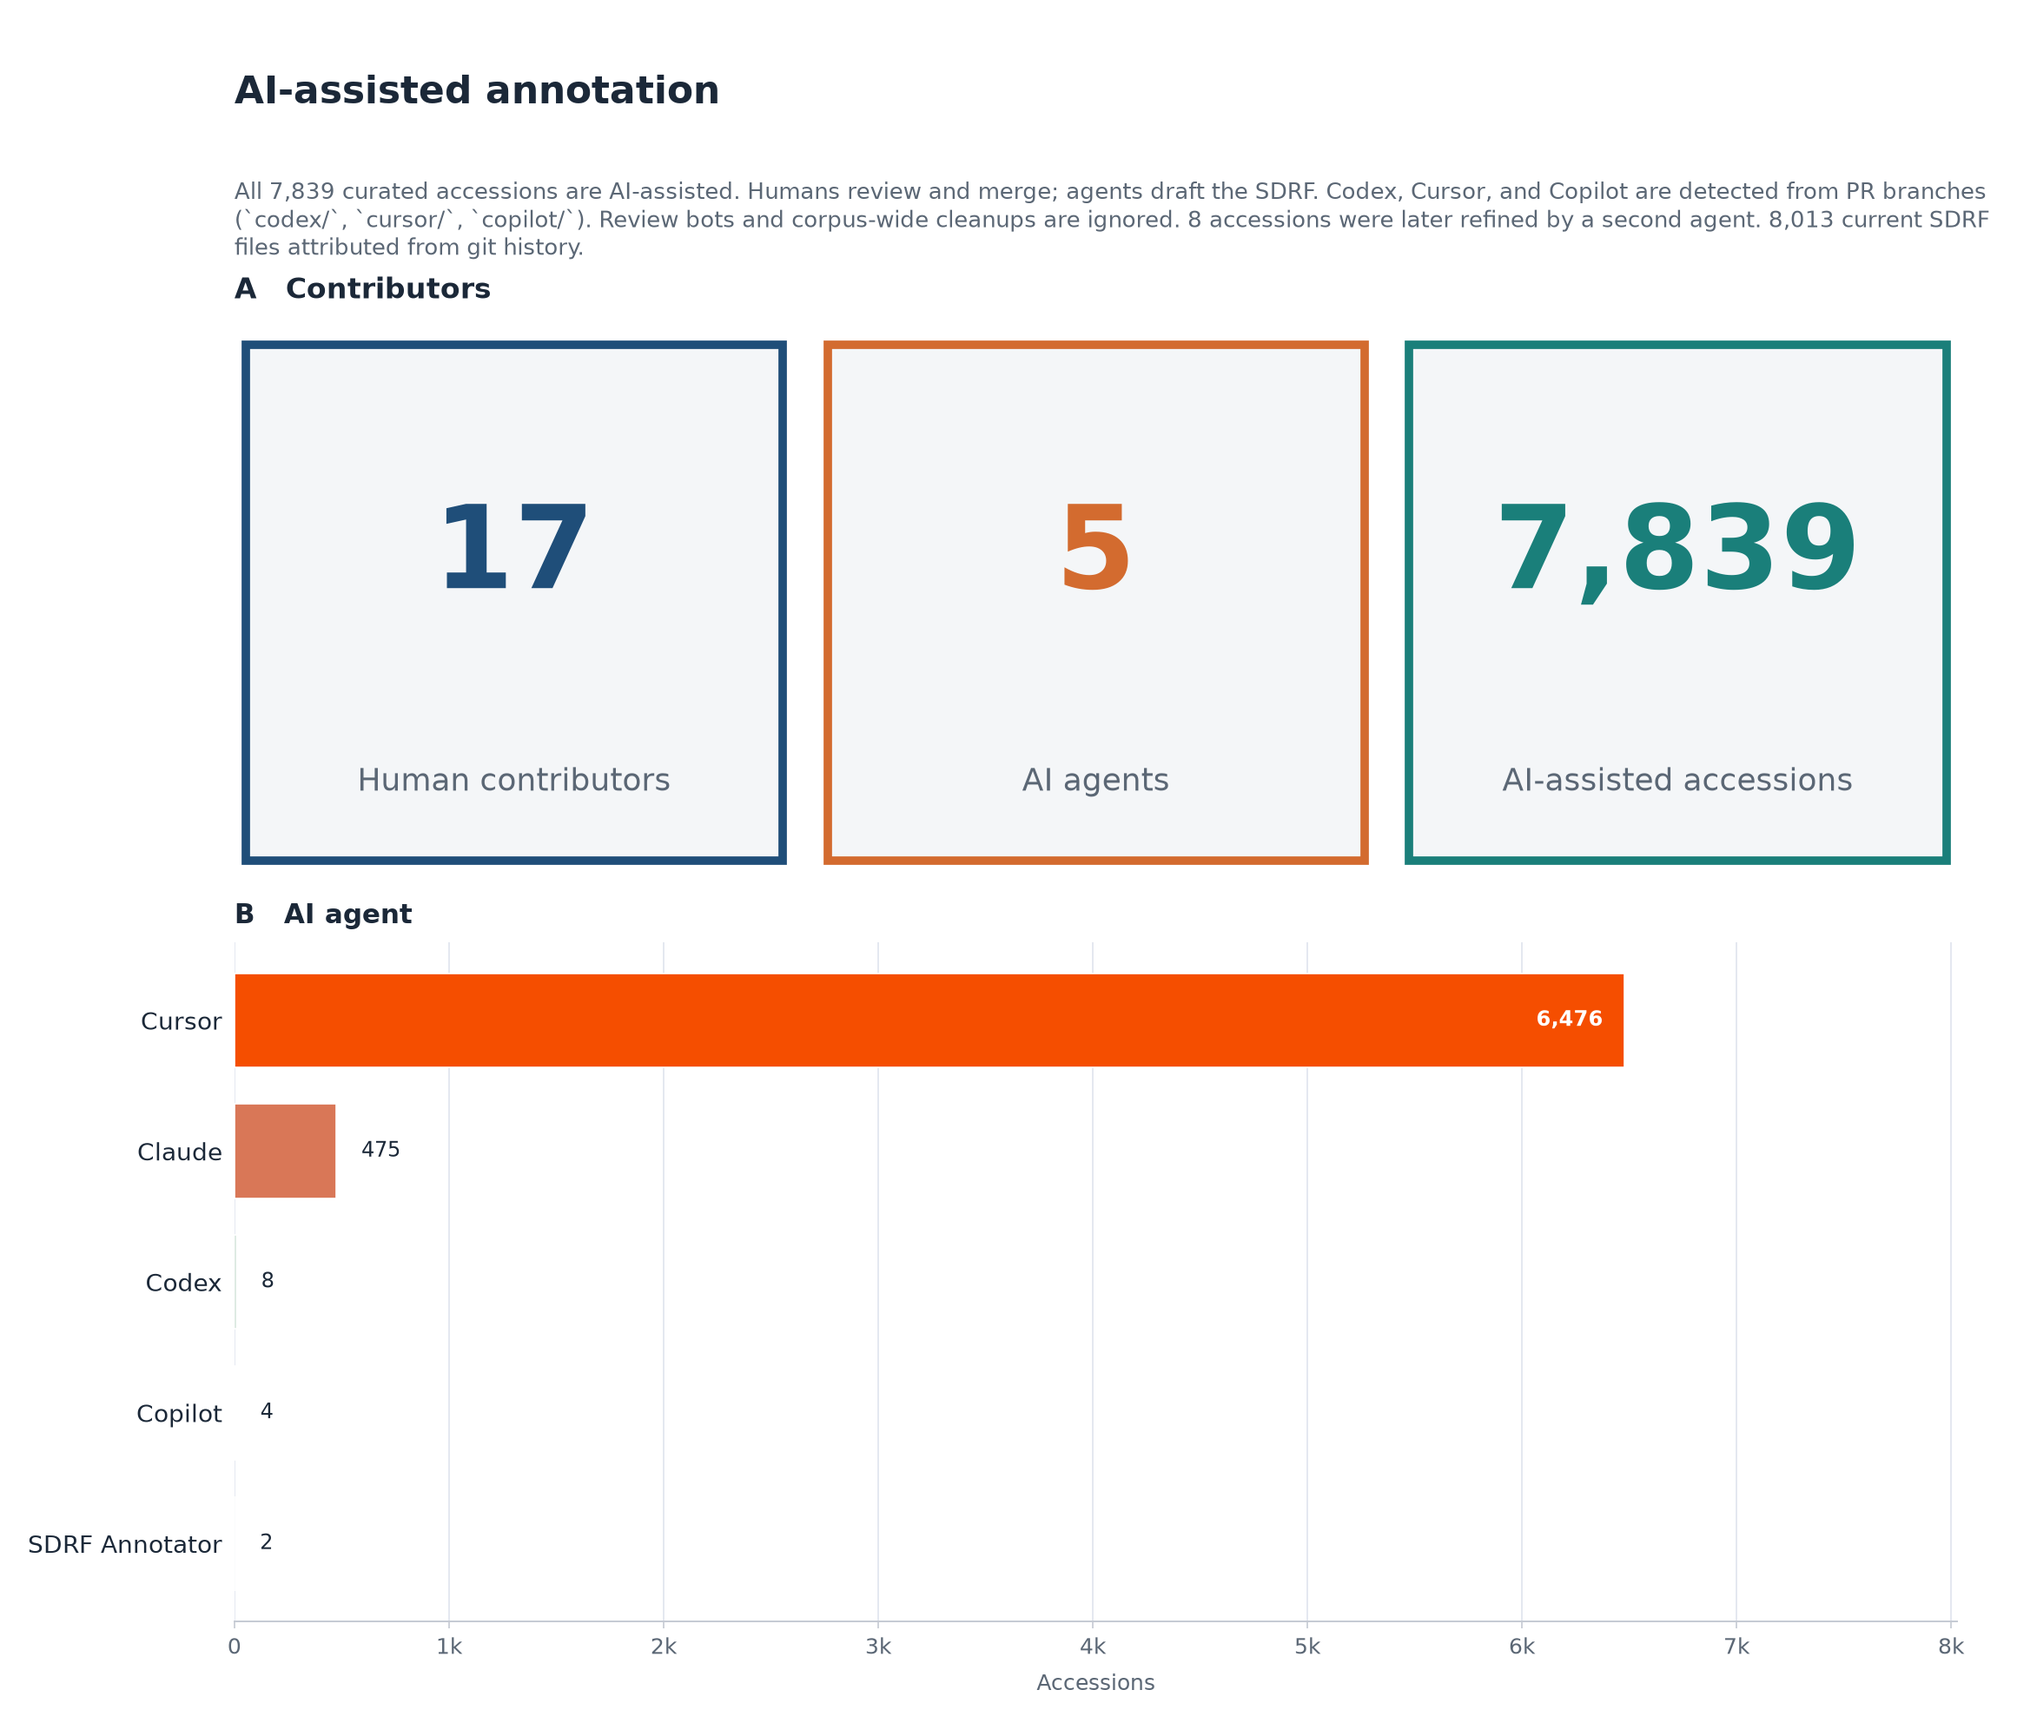
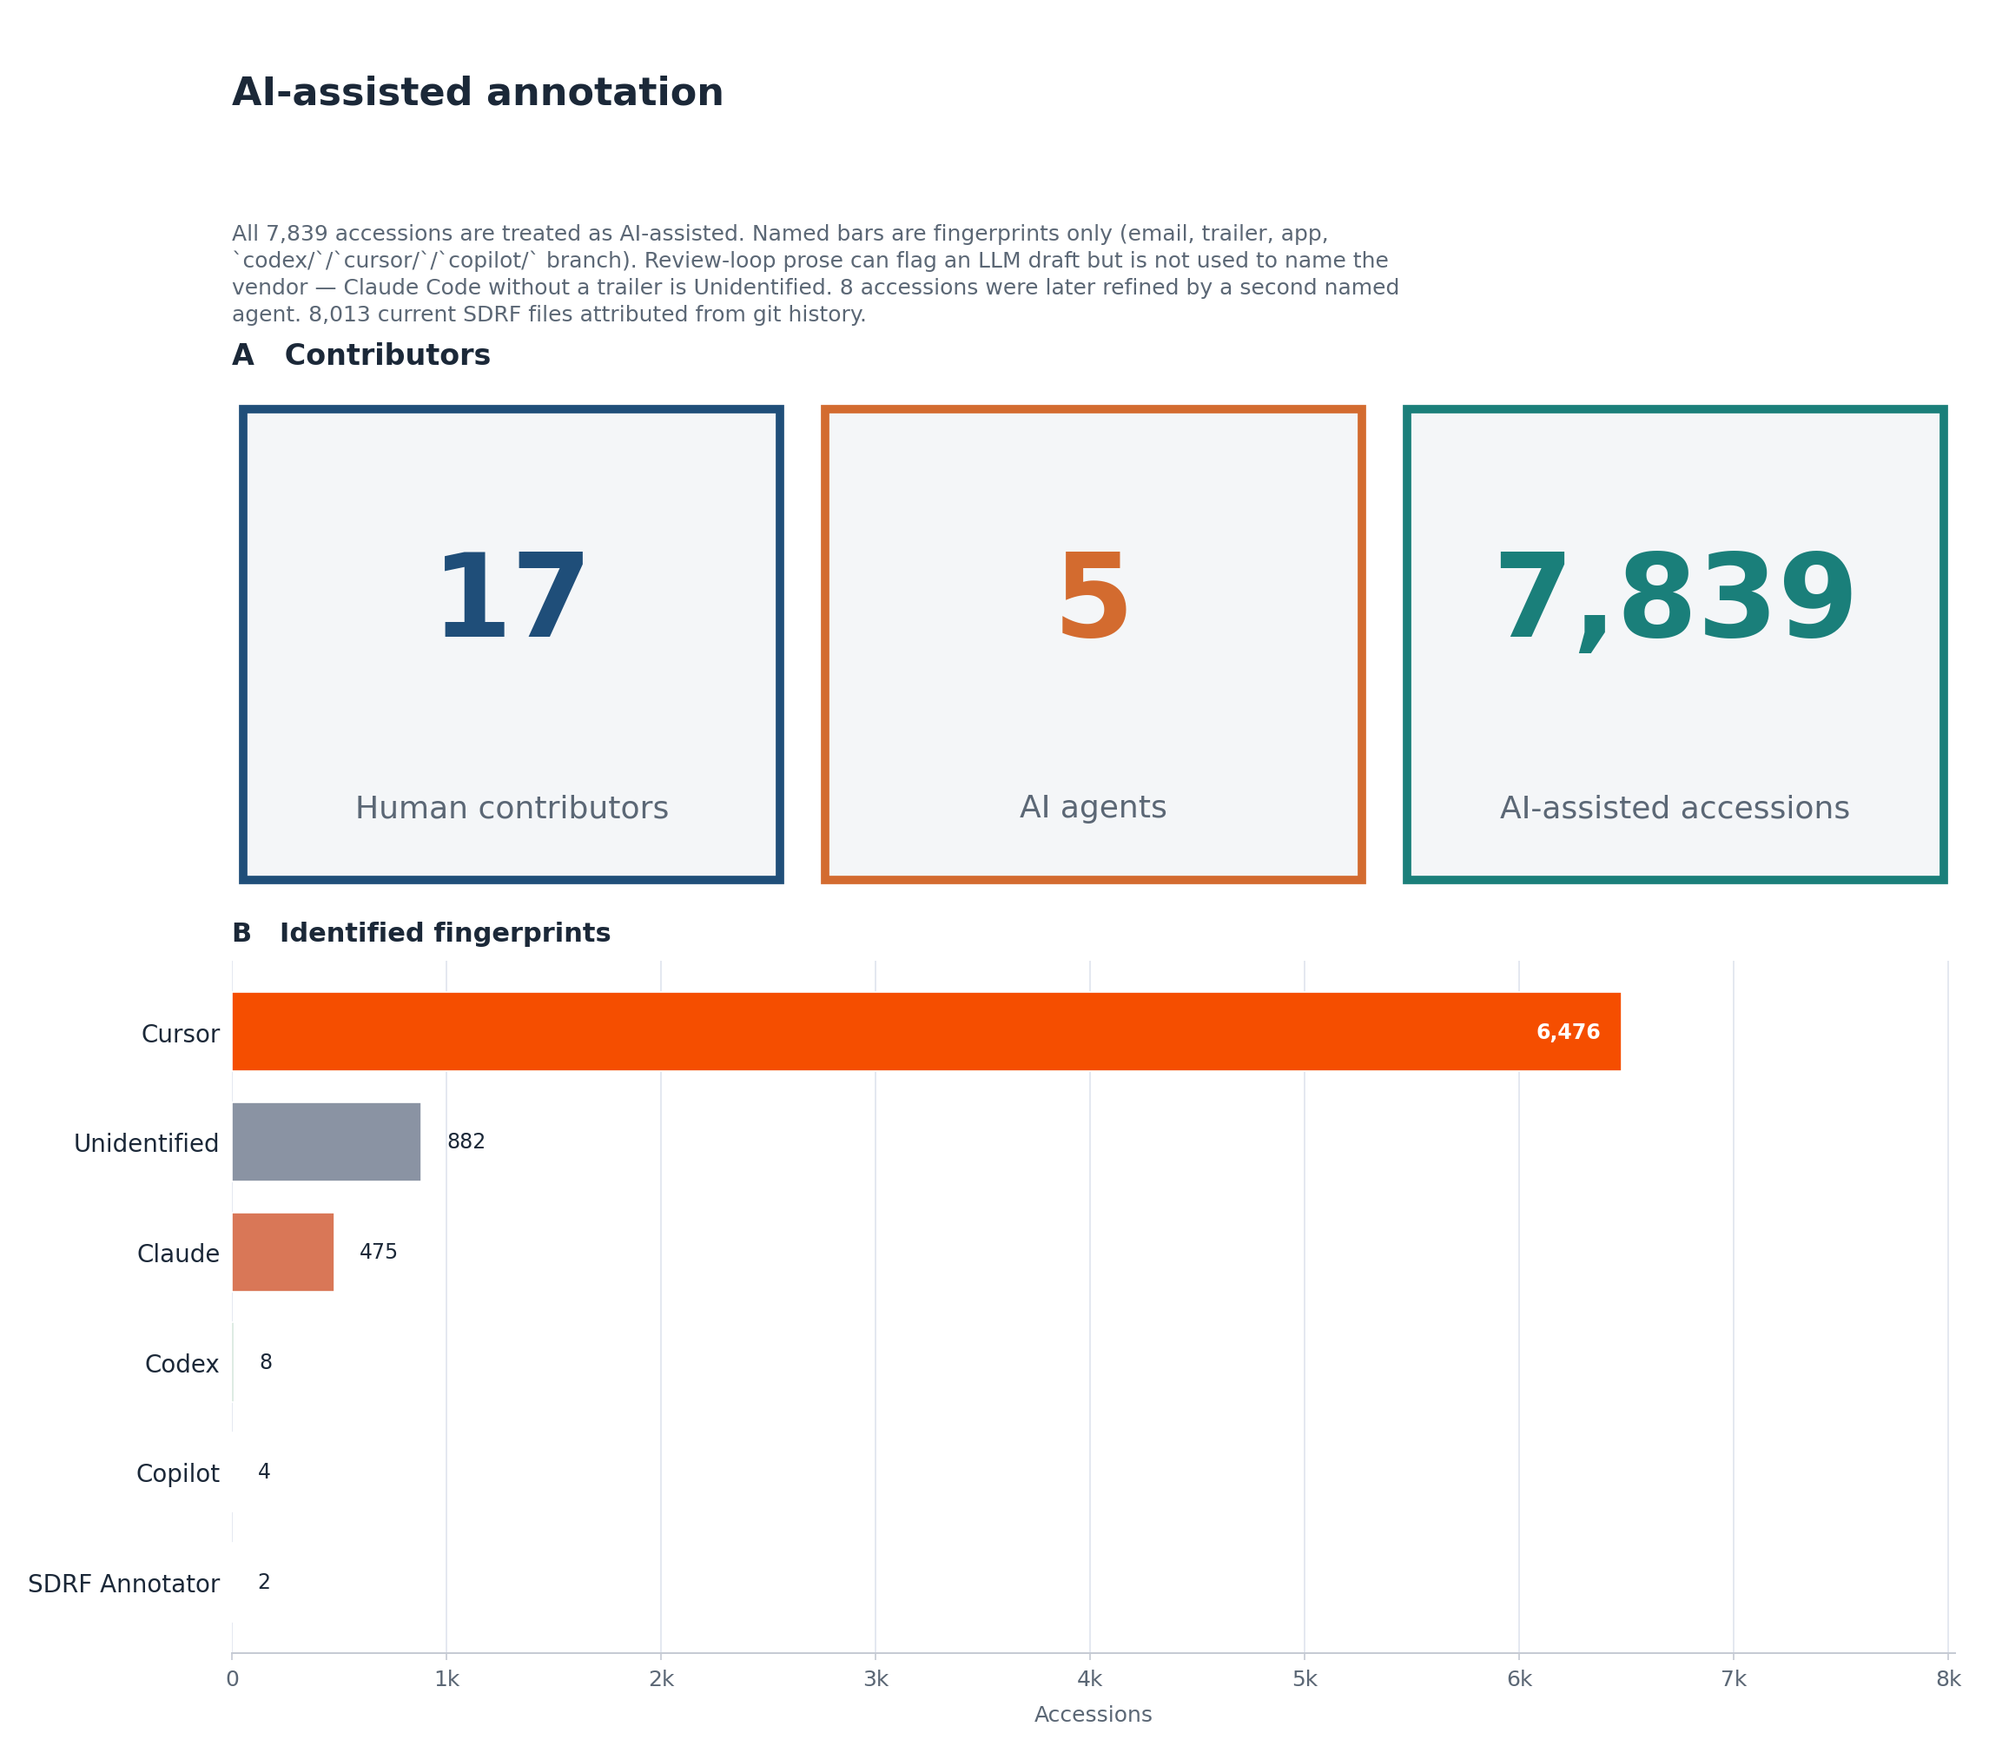
Show unidentified agent fingerprints in README contribution stats.
Named Cursor/Claude/Codex bars stay fingerprint-only; review-loop prose is not used to guess the vendor, so Claude Code committed as a human lands in Unidentified.

diff --git a/.github/scripts/generate_readme_stats.py b/.github/scripts/generate_readme_stats.py
@@ -17,6 +17,7 @@ import os
 import re
 import subprocess
 import sys
+import textwrap
 import urllib.error
 import urllib.request
 from collections import Counter, defaultdict
@@ -202,6 +203,17 @@ _AGENT_TEXT_PATTERNS = (
         ),
         "Codex",
     ),
+)
+
+# LLM-drafted annotation prose that does not name a vendor. Use only as an
+# AI-assisted signal; never map these to Claude vs Cursor vs Codex.
+_AI_PROSE_RE = re.compile(
+    r"adversarial(?:ly)? review|"
+    r"hash-bound to the committed bytes|"
+    r"final PASS bound to the committed bytes|"
+    r"independently reviewed over \d+ rounds|"
+    r"sdrf-skills",
+    re.I,
 )
 
 # Same automated annotation pipeline as batches that declared Cursor, but
@@ -800,6 +812,11 @@ def _parse_agent_text(text: str) -> set[str]:
     return labels
 
 
+def _looks_like_ai_prose(text: str) -> bool:
+    """True when review-loop prose suggests an LLM draft, without naming one."""
+    return bool(text and _AI_PROSE_RE.search(text))
+
+
 def _campaign_agent(title: str, body: str = "") -> str | None:
     """Cursor campaigns that later dropped explicit trailers on squash."""
     if _MIGRATION_TITLE_RE.search(title or ""):
@@ -1226,11 +1243,14 @@ def _union_pr_paths(
 def collect_contributions(current_files: list[Path]) -> dict:
     """Attribute current datasets/ SDRFs using first-add git history and PRs.
 
-    A file is agent-assisted if the commit that first added it, or a merged
+    A file has a *named* agent if the commit that first added it, or a merged
     annotation PR (title, description, commits, comments, or agent branch
-    prefix such as codex/), shows an AI agent. Review bots and corpus-wide
-    mechanical cleanups are ignored. First-add is the originating agent;
-    later annotation PRs are refinements (one agent, then another).
+    prefix such as codex/), shows Cursor, Claude, Codex, Copilot, or similar.
+    Review-loop prose (adversarial review, hash-bound PASS, sdrf-skills) can
+    corroborate that a human-authored commit is still AI-assisted, but is never
+    used to pick which vendor. Review bots and corpus-wide mechanical cleanups
+    are ignored. First-add is the originating agent; later annotation PRs are
+    refinements (one agent, then another).
     """
     current = {p.resolve().relative_to(REPO_ROOT).as_posix() for p in current_files}
     file_agents: dict[str, set[str]] = defaultdict(set)
@@ -1269,12 +1289,15 @@ def collect_contributions(current_files: list[Path]) -> dict:
 
     pull_requests, pr_fetch = _fetch_merged_pull_requests()
     prs_with_agent = 0
+    prs_ai_prose_only = 0
     for pr in pull_requests:
         number = int(pr.get("number") or 0)
         title = pr.get("title") or ""
         labels = _classify_pull_request_agents(pr)
         labels.update(merge_branch_agents.get(number, ()))
         if not labels:
+            if _looks_like_ai_prose(f"{title}\n{pr.get('body') or ''}"):
+                prs_ai_prose_only += 1
             continue
         if _MECHANICAL_PR_RE.search(title) or _MIGRATION_TITLE_RE.search(title):
             continue
@@ -1345,6 +1368,9 @@ def collect_contributions(current_files: list[Path]) -> dict:
     for agents in acc_agents.values():
         agent_acc.update(agents)
 
+    current_acc = {Path(path).parent.name for path in current}
+    unidentified_acc = len(current_acc - set(acc_agents))
+
     first_acc: Counter = Counter()
     refine_acc: Counter = Counter()
     handoff: Counter = Counter()
@@ -1366,7 +1392,8 @@ def collect_contributions(current_files: list[Path]) -> dict:
         f"{int(origin_acc.get('Agent-assisted', 0)):,} agent-assisted / "
         f"{int(origin_acc.get('Human-only', 0)):,} human-only accessions "
         f"({pr_fetch} PR scan, {prs_with_agent} PRs with agent evidence, "
-        f"{multi_agent} multi-agent)"
+        f"{multi_agent} multi-agent, {unidentified_acc} unidentified vendor, "
+        f"{prs_ai_prose_only} PRs with AI prose and no vendor fingerprint)"
     )
 
     return {
@@ -1375,6 +1402,8 @@ def collect_contributions(current_files: list[Path]) -> dict:
         "human_contributors": len(all_humans),
         "ai_agents": len(agent_acc),
         "multi_agent_accessions": multi_agent,
+        "unidentified_accessions": unidentified_acc,
+        "github_prs_ai_prose_only": prs_ai_prose_only,
         "github_prs_scanned": len(pull_requests),
         "github_prs_with_agent": prs_with_agent,
         "github_pr_fetch": pr_fetch,
@@ -2724,6 +2753,7 @@ AGENT_COLORS = {
     "ChatGPT": "#10A37F",
     "Codex": "#3D8B5C",
     "Gemini": "#4285F4",
+    "Unidentified": "#8A93A3",
 }
 
 COMPLETE_CMAP = LinearSegmentedColormap.from_list(
@@ -3064,6 +3094,7 @@ def render_contributions_figure(
 
     unattr = int(contributions.get("unattributed_files", 0))
     attributed = int(contributions.get("attributed_files", 0))
+    n_unidentified = _unidentified_accessions(contributions, totals)
     extra = (
         f"{unattr:,} current files could not be matched to an add commit."
         if unattr
@@ -3071,16 +3102,16 @@ def render_contributions_figure(
     )
     n_multi = int(contributions.get("multi_agent_accessions") or 0)
     multi_bit = (
-        f" {n_multi:,} accessions were later refined by a second agent."
+        f" {n_multi:,} accessions were later refined by a second named agent."
         if n_multi
         else ""
     )
 
-    fig = plt.figure(figsize=(11.4, 10.2))
+    fig = plt.figure(figsize=(11.4, 10.4))
     outer = fig.add_gridspec(
         3,
         1,
-        height_ratios=[0.16, 0.38, 0.46],
+        height_ratios=[0.20, 0.34, 0.46],
         hspace=0.12,
         left=0.10,
         right=0.97,
@@ -3093,7 +3124,7 @@ def render_contributions_figure(
     header.set_ylim(0, 1)
     header.text(
         0.0,
-        0.72,
+        0.78,
         "AI-assisted annotation",
         fontsize=16,
         fontweight="bold",
@@ -3104,18 +3135,22 @@ def render_contributions_figure(
     header.text(
         0.0,
         0.18,
-        (
-            f"All {n_acc:,} curated accessions are AI-assisted. "
-            "Humans review and merge; agents draft the SDRF. "
-            "Codex, Cursor, and Copilot are detected from PR branches "
-            "(`codex/`, `cursor/`, `copilot/`). Review bots and corpus-wide "
-            f"cleanups are ignored.{multi_bit} {extra}"
+        textwrap.fill(
+            (
+                f"All {n_acc:,} accessions are treated as AI-assisted. "
+                "Named bars are fingerprints only (email, trailer, app, "
+                "`codex/`/`cursor/`/`copilot/` branch). Review-loop prose can "
+                "flag an LLM draft but is not used to name the vendor — "
+                "Claude Code without a trailer is Unidentified."
+                f"{multi_bit} {extra}"
+            ),
+            width=108,
         ),
-        fontsize=9.5,
+        fontsize=9.0,
         color=MUTED,
         va="center",
         ha="left",
-        wrap=True,
+        linespacing=1.35,
     )
 
     cards = outer[1, 0].subgridspec(1, 3, wspace=0.04)
@@ -3133,12 +3168,15 @@ def render_contributions_figure(
     _draw_stat_card(card_axes[2], "AI-assisted accessions", n_acc, "#1A7F7A")
 
     ax_agents = fig.add_subplot(outer[2, 0])
-    _panel_title(ax_agents, "B", "AI agent")
+    _panel_title(ax_agents, "B", "Identified fingerprints")
     agent_items = [
         (row["name"], int(row["accessions"]))
         for row in agents
         if int(row["accessions"])
     ]
+    if n_unidentified:
+        agent_items.append(("Unidentified", n_unidentified))
+    agent_items.sort(key=lambda item: item[1], reverse=True)
     agent_colors = [
         AGENT_COLORS.get(name, OTHER_COLOR) for name, _ in agent_items
     ]
@@ -3236,6 +3274,26 @@ def _lookup_specialty(rows: list[dict], name: str) -> int:
     return 0
 
 
+def _unidentified_accessions(
+    contributions: dict, totals: dict | None = None
+) -> int:
+    stored = contributions.get("unidentified_accessions")
+    if stored is not None:
+        return int(stored)
+    n_acc = int((totals or {}).get("accessions") or 0)
+    identified = 0
+    for row in contributions.get("origin") or []:
+        if row.get("name") == "Agent-assisted":
+            identified = int(row.get("accessions") or 0)
+            break
+    if n_acc:
+        return max(n_acc - identified, 0)
+    for row in contributions.get("origin") or []:
+        if row.get("name") == "Human-only":
+            return int(row.get("accessions") or 0)
+    return 0
+
+
 def build_readme_section(stats: dict, plot_paths: dict[str, str]) -> str:
     totals = stats["totals"]
     top_org = stats["organisms"][0][0] if stats["organisms"] else "n/a"
@@ -3257,6 +3315,7 @@ def build_readme_section(stats: dict, plot_paths: dict[str, str]) -> str:
         contrib.get("agents", [{}])[0].get("name") if contrib.get("agents") else None
     )
     n_multi = int(contrib.get("multi_agent_accessions") or 0)
+    n_unidentified = _unidentified_accessions(contrib, totals)
     n_codex = 0
     for row in contrib.get("agents") or []:
         if row.get("name") == "Codex":
@@ -3308,10 +3367,17 @@ def build_readme_section(stats: dict, plot_paths: dict[str, str]) -> str:
         if n_people:
             agent_bit += f" (**{fmt_int(n_people)}** human contributors"
             if n_ai_agents:
-                agent_bit += f", **{fmt_int(n_ai_agents)}** AI agents"
+                agent_bit += f", **{fmt_int(n_ai_agents)}** named AI agents"
             agent_bit += ")"
         if top_agent:
-            agent_bit += f", mostly **{top_agent}**"
+            agent_bit += (
+                f"; identified fingerprints are mostly **{top_agent}**"
+            )
+        if n_unidentified:
+            agent_bit += (
+                f"; **{fmt_int(n_unidentified)}** accessions have no vendor "
+                "fingerprint (typical of Claude Code committed as the reviewer)"
+            )
         highlight_parts.append(agent_bit)
     if n_codex:
         highlight_parts.append(
@@ -3357,8 +3423,9 @@ def build_readme_section(stats: dict, plot_paths: dict[str, str]) -> str:
         f"{fmt_int(totals['runs'])} |",
         f"| Assay rows | {fmt_int(totals['assay_rows'])} |",
         f"| Human contributors | {fmt_int(n_people)} |",
-        f"| AI agents | {fmt_int(n_ai_agents)} |",
+        f"| AI agents (named fingerprints) | {fmt_int(n_ai_agents)} |",
         f"| AI-assisted accessions | {fmt_int(int(totals['accessions']))} |",
+        f"| Unidentified agent | {fmt_int(n_unidentified)} |",
         f"| Multi-agent accessions | {fmt_int(n_multi)} |",
         f"| Distinct instruments | {fmt_int(n_instruments)} |",
         f"| Median runs per accession | {fmt_int(median_runs)} |",

diff --git a/README.md b/README.md
@@ -25,8 +25,9 @@ _Auto-generated from curated `datasets/` on 2026-09-04T06:53:38Z. Sandbox drafts
 | Runs (unique `comment[data file]` per file) | 293,631 |
 | Assay rows | 367,344 |
 | Human contributors | 17 |
-| AI agents | 5 |
+| AI agents (named fingerprints) | 5 |
 | AI-assisted accessions | 7,839 |
+| Unidentified agent | 882 |
 | Multi-agent accessions | 8 |
 | Distinct instruments | 115 |
 | Median runs per accession | 12 |
@@ -34,7 +35,7 @@ _Auto-generated from curated `datasets/` on 2026-09-04T06:53:38Z. Sandbox drafts
 | ProteomeXchange coverage | 7,804 / 55,746 (14.0%) |
 | PRIDE coverage | 7,642 / 41,080 (18.6%) |
 
-**Highlights:** most common organism is **Homo sapiens**; **60,385** DIA assay rows; **62,723** TMT and **278,451** LFQ assay rows; **68** single-cell, **214** cell-line, and **591** metaproteomics accessions; sample-field completeness (applicable samples): disease 29%, age 10%; all **7,839** accessions are AI-assisted (**17** human contributors, **5** AI agents), mostly **Cursor**; **8** accessions have Codex evidence (`codex/` PR branches); **8** accessions were touched by more than one agent (most common handoff **Cursor → Claude**); most common instrument is **Q Exactive**; most common modification is **Carbamidomethyl**; **14.0%** of public ProteomeXchange datasets have a curated SDRF here; **18.6%** of PRIDE projects are annotated.
+**Highlights:** most common organism is **Homo sapiens**; **60,385** DIA assay rows; **62,723** TMT and **278,451** LFQ assay rows; **68** single-cell, **214** cell-line, and **591** metaproteomics accessions; sample-field completeness (applicable samples): disease 29%, age 10%; all **7,839** accessions are AI-assisted (**17** human contributors, **5** named AI agents); identified fingerprints are mostly **Cursor**; **882** accessions have no vendor fingerprint (typical of Claude Code committed as the reviewer); **8** accessions have Codex evidence (`codex/` PR branches); **8** accessions were touched by more than one agent (most common handoff **Cursor → Claude**); most common instrument is **Q Exactive**; most common modification is **Carbamidomethyl**; **14.0%** of public ProteomeXchange datasets have a curated SDRF here; **18.6%** of PRIDE projects are annotated.
 
 ![How much of public proteomics is annotated](docs/stats/plots/coverage.png)
 
